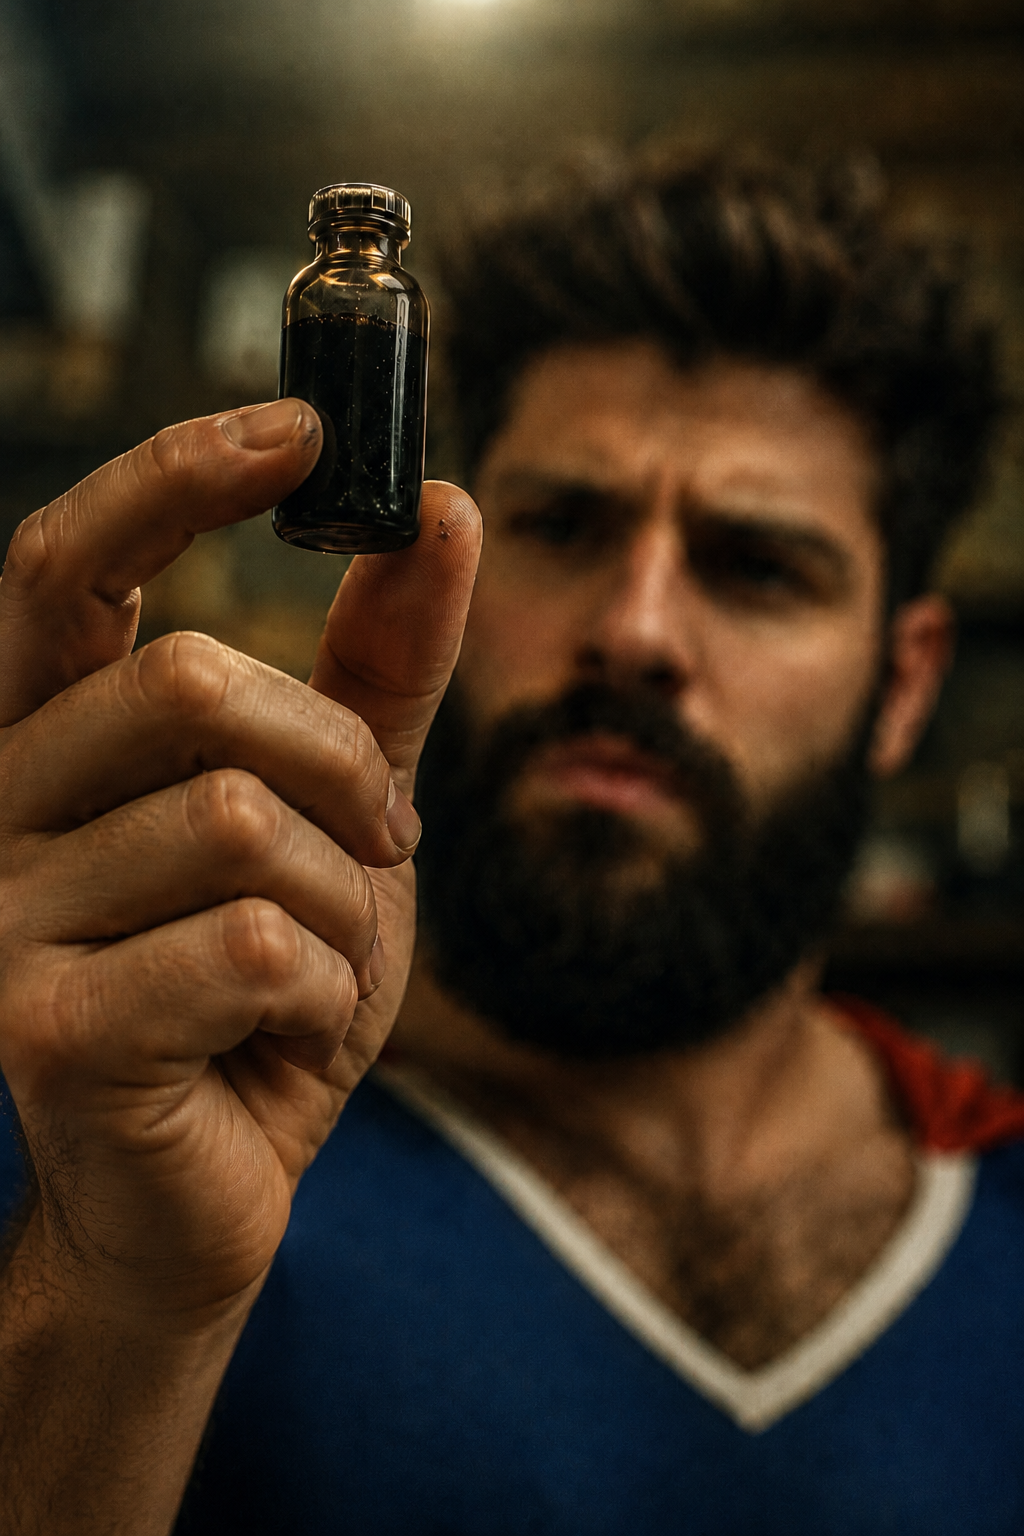
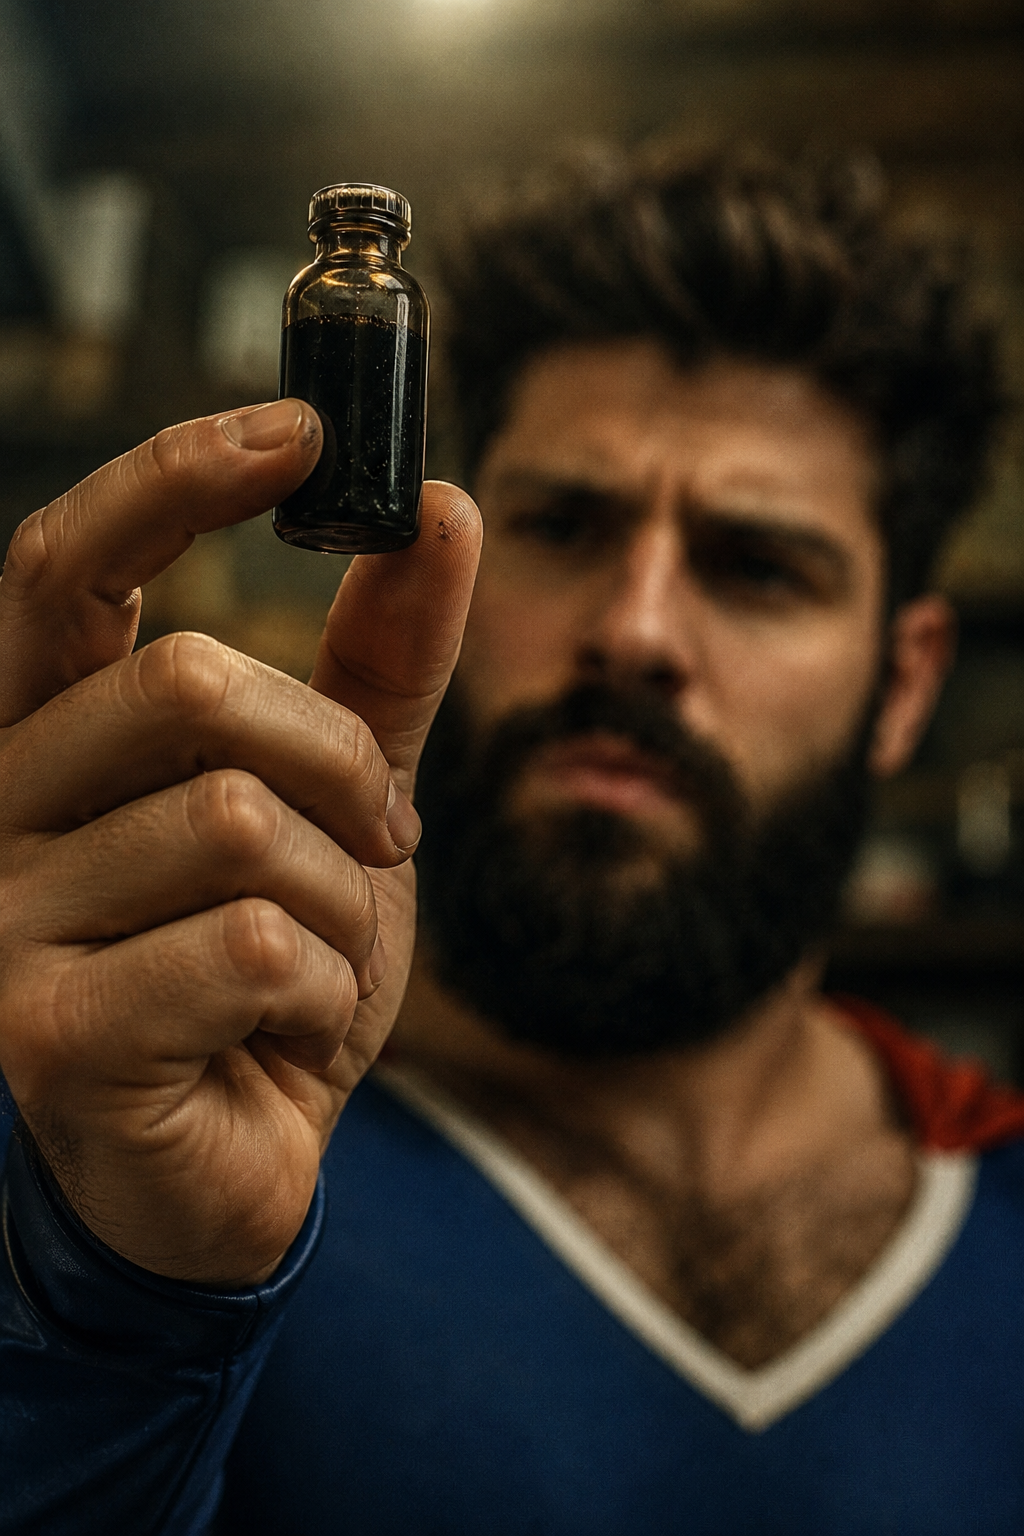
Small change to ch15

diff --git a/stories/ch15.md b/stories/ch15.md
@@ -42,7 +42,7 @@ Roberto came past Andrew's table and did not stop to refill the water. Andrew ha
 
 Andrew held the page open and read nothing.
 
-He had been coming to this café for months. Roberto's _buongiorno_, the same seat on the piazza, the espresso that came without being asked for — all of it in front of whatever was being moved through the back. He had been within twenty feet of it every time he ordered. He had been on the receiving end of whatever was moving through that back room — held down in a warehouse while something was pushed through him without his consent. He knew what was in there.
+He had been coming to this café for months. Roberto's _buongiorno_, the same seat on the piazza, the espresso that came without being asked for — all of it in front of whatever was being moved through the back. He had been within twenty feet of it every time he ordered. He had been on the receiving end of whatever was moving through that back room. He knew what was in there. He felt whatever was left of Bill's dark energy stir in his bones as the delivery man walked past.
 
 He set the cup down. Closed the book on his finger.
 
@@ -167,7 +167,7 @@ His phone was in the other pocket. He had forgotten he was carrying it. He took 
 
 A message from Mike.
 
-He had not heard from Mike in weeks. The last thing in their thread was a selfie from somewhere mid-air — both of them in their suits, Mike pulling a face at the camera, Nick laughing beside him. Andrew had sent back emojis.
+He had not heard from Mike in weeks. The last thing he remembered getting was a selfie of Mike and Nick mid-flight, Mike pulling a face at the camera.
 
 He opened the new message.
 
